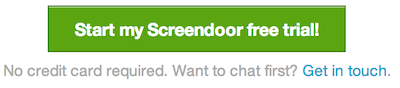
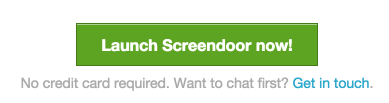
remove "free trial" from screenshot closes #129
didn’t see any other ones

diff --git a/contents/articles/dashboard/applications/managing_applications.md b/contents/articles/dashboard/applications/managing_applications.md
@@ -5,7 +5,7 @@ order: 1
 
 ## Installing an app
 
-To install an app, navigate to the "App store" section of the dashboard. Select the app you would like to install and then click the "free trial" button at the bottom of the app page. You will then be prompted to install the app you selected.
+To install an app, navigate to the "App store" section of the dashboard. Select the app you would like to install and then click the "Launch" button at the bottom of the app page. You will then be prompted to install the app you selected.
 
 ![install app](../images/install_app.png)
 
